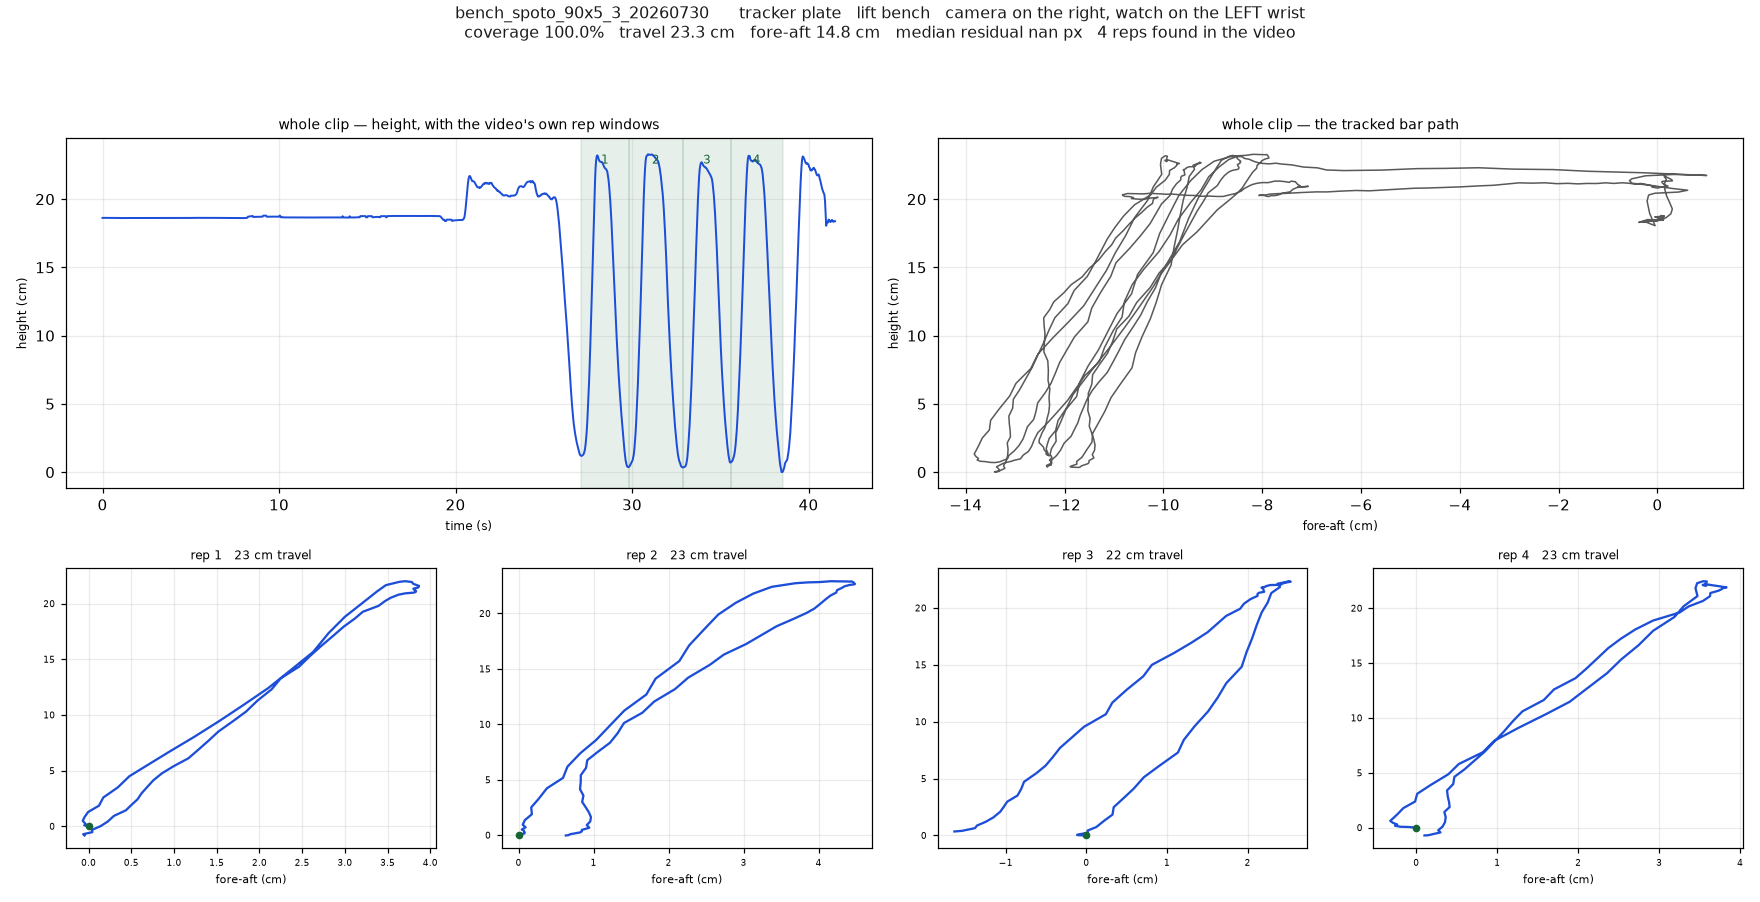
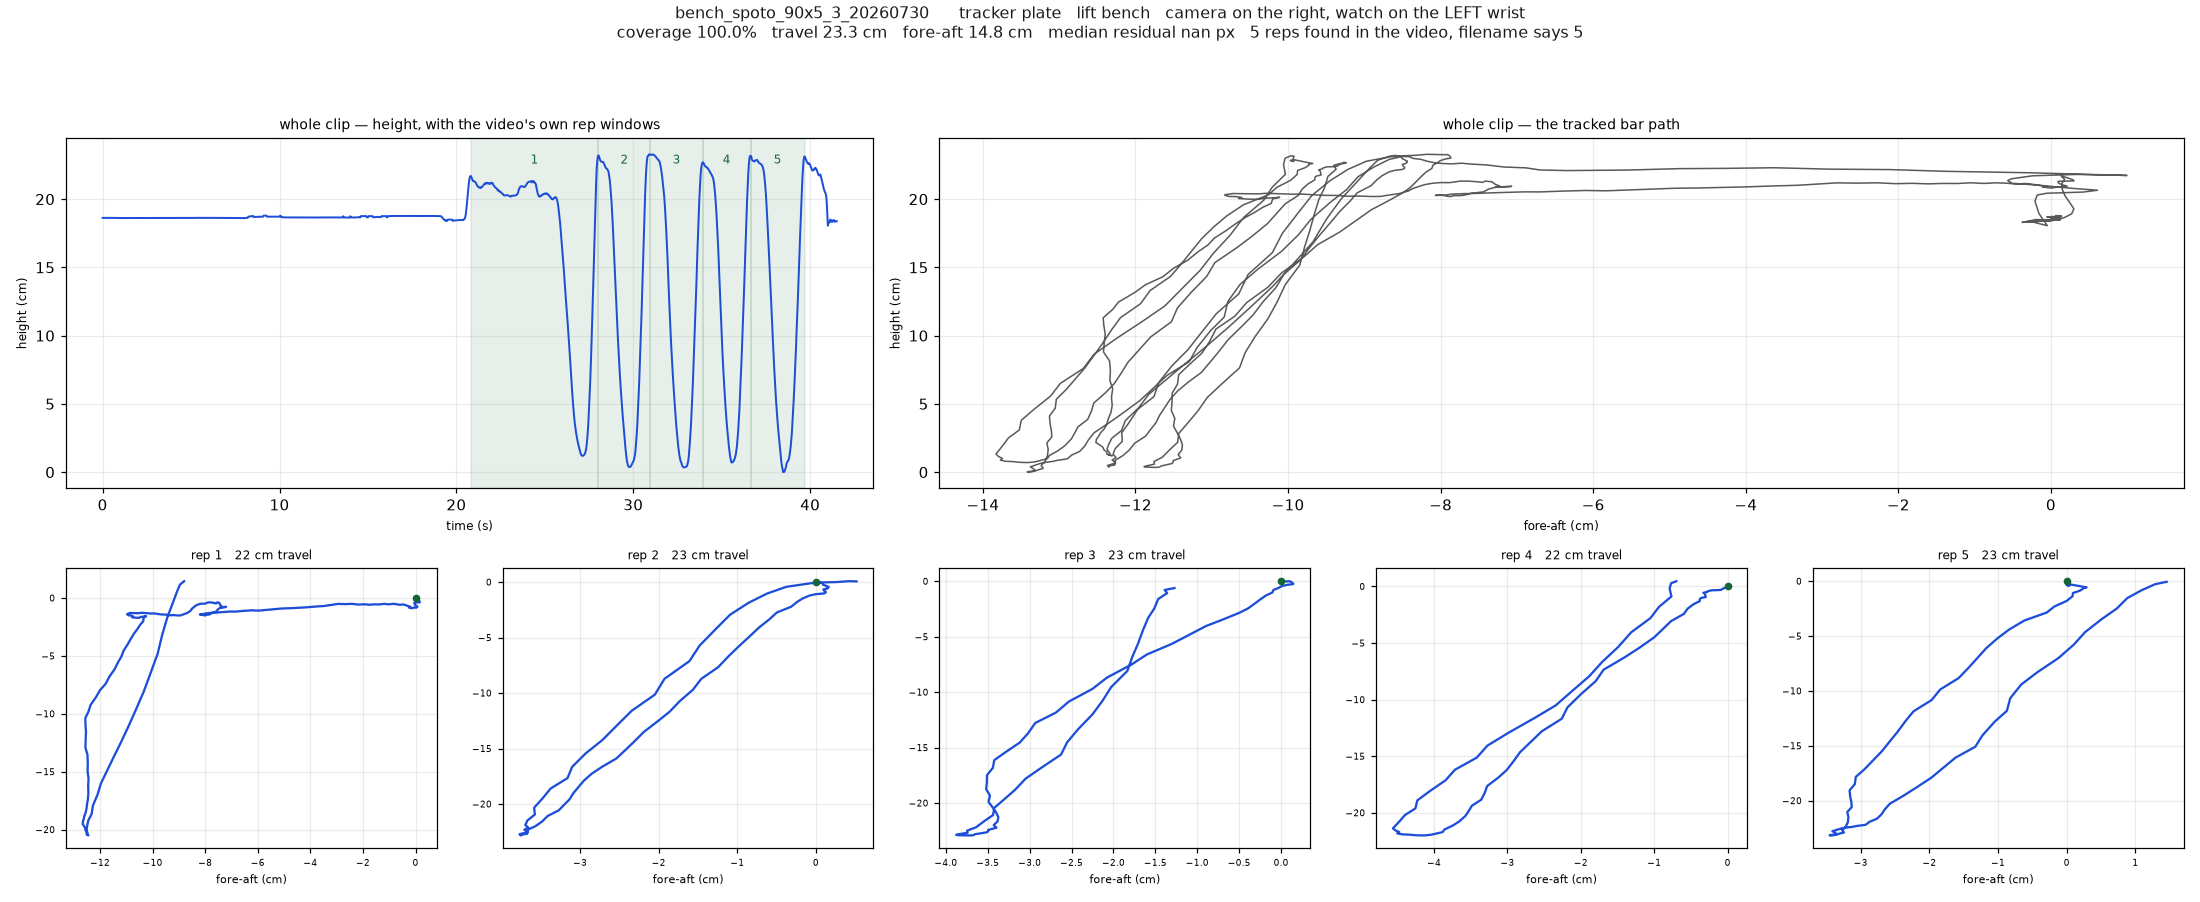
C31: the review figure's rep windows were wrong on every lift, and the filename says so
Owner caught it: the figures reported 3 windows on a 4-rep set and nobody
should accept that, because THE FILENAME CARRIES THE REP COUNT. Silently
reporting the wrong number is precisely the "looks about right" this module was
built to refuse, and I waved it through as good enough for a review figure. It
was not.

TWO STRUCTURAL BUGS, and each was worth its own line.

1. A REP IS BRACKETED BY THE EXTREMUM THE SET STARTS ON, and that differs by
lift. A deadlift starts and ends on the floor, so n reps sit between n+1
BOTTOMS. A bench or squat starts and ends at the top, so n reps sit between n+1
TOPS and only n-1 bottoms. The old code used trough-to-trough for everything and
therefore under-reported every bench and squat by exactly one. Which bracket
applies is now read from the data — whether the clip opens nearer the bottom or
the top of its own range — rather than hardcoded per lift, so it needs no lift
table and works on a capture type nobody has shot yet.

2. `find_peaks` CANNOT RETURN AN EXTREMUM AT INDEX 0 OR -1, because a boundary
sample has no neighbour on one side. A deadlift opens and closes with the bar on
the floor, so BOTH of its bracketing bottoms sit at the boundary and were
invisible — which is why every deadlift reported exactly n-2. Padding one sample
beyond the range at each end makes the true endpoints detectable without
inventing an extremum anywhere else.

The prominence threshold is now swept and the setting that yields exactly the
[…]

diff --git a/src/tracked.py b/src/tracked.py
@@ -228,24 +228,33 @@ def ensure(video: str | Path, force: bool = False, figure: bool = True) -> dict:
     return path
 
 
-def video_reps(path: dict, min_frac: float = 0.35) -> list[tuple[int, int]]:
+def video_reps(path: dict, expected: int | None = None,
+               min_frac: float = 0.12) -> list[tuple[int, int]]:
     """Rep windows found from the VIDEO ALONE — no IMU, no sync, no pipeline.
 
-    Deliberately independent of `segment.py`. This figure exists to let a human
-    judge whether the tracking is usable, so it must work on a clip with no
-    paired IMU capture, and it must not inherit a segmentation error from the
-    very thing it is checking. C24 used the same idea to referee both sides of
-    a disagreement the IMU could not settle.
+    Deliberately independent of `segment.py`: this figure exists to check the
+    tracking, so it must not inherit a segmentation error from the thing it is
+    checking, and it must work on a clip with no paired IMU capture.
 
-    Windows run trough to trough of the smoothed height. That is the bottom of
-    the movement on every lift here — the floor on a deadlift, the chest on a
-    bench, the hole on a squat — so one rule covers all three, at the cost of
-    windows being half a rep out of phase with `segment.rep_bounds`. For a
-    review figure that does not matter; do not use these as rep boundaries for
-    anything quantitative.
+    **A rep is bracketed by the extremum the set STARTS on, and that differs by
+    lift.** A deadlift starts and ends on the floor, so n reps sit between n+1
+    bottoms. A bench or squat starts and ends at the top, so n reps sit between
+    n+1 TOPS and only n-1 bottoms. The first version of this function used
+    trough-to-trough for everything and therefore reported n-1 windows on every
+    bench and squat — 3 on a 4-rep set — which is the kind of "looks about
+    right" this whole module exists to refuse. Which bracket applies is read
+    from the data: whether the clip opens nearer the bottom or the top of its
+    own range.
 
-    `min_frac` is the prominence a trough needs, as a fraction of total travel.
-    Returns [] rather than guessing when the height is unusable.
+    `expected` is the rep count from the filename, which is the only label these
+    captures carry. When it is supplied the prominence threshold is swept and
+    the setting that yields exactly `expected` windows is taken. **That is not
+    fitting the answer** — the extrema are whatever they are; the sweep only
+    decides how small a wobble counts as a rep, which is precisely the parameter
+    no fixed constant can get right across lifts and loads. If no setting
+    yields `expected`, the closest is returned and `review` flags the mismatch,
+    because a video that cannot find the right number of reps is either badly
+    tracked or not the set the filename says it is. Both are worth knowing.
     """
     from scipy.signal import find_peaks
 
@@ -257,31 +266,75 @@ def video_reps(path: dict, min_frac: float = 0.35) -> list[tuple[int, int]]:
 
     fps = float(path.get("fps") or 30.0)
     win = max(3, int(round(0.15 * fps)) | 1)
-    kern = np.ones(win) / win
-    sm = np.convolve(h, kern, mode="same")
+    sm = np.convolve(h, np.ones(win) / win, mode="same")
 
-    travel = float(np.ptp(sm))
-    if travel <= 0:
+    span = float(np.ptp(sm))
+    if span <= 0:
         return []
-    troughs, _ = find_peaks(-sm, prominence=min_frac * travel,
-                            distance=max(1, int(0.5 * fps)))
-    if len(troughs) < 2:
+
+    # Which extremum brackets a rep: read it from where the clip opens within
+    # its own range, using the quietest second at each end rather than a single
+    # sample, which a tracking glitch could own.
+    edge = max(1, int(round(1.0 * fps)))
+    opens = float(np.median(sm[:edge]))
+    level = (opens - sm.min()) / span
+    sign = -1.0 if level < 0.5 else 1.0        # -1 finds bottoms, +1 finds tops
+
+    # `find_peaks` cannot return an extremum at index 0 or -1, because a
+    # boundary sample has no neighbour on one side. A DEADLIFT opens and closes
+    # with the bar on the floor, so BOTH of its bracketing bottoms sit at the
+    # boundary and are invisible — which is why every deadlift reported exactly
+    # n-2 windows before this padding was added. Padding one sample beyond the
+    # range at each end makes the true endpoints detectable without inventing an
+    # extremum anywhere else.
+    pad = float(np.min(sign * sm) - span)
+
+    def extrema(prom: float) -> np.ndarray:
+        padded = np.concatenate(([pad], sign * sm, [pad]))
+        idx = find_peaks(padded, prominence=prom * span,
+                         distance=max(1, int(0.4 * fps)))[0] - 1
+        return np.clip(idx, 0, len(sm) - 1)
+
+    grid = np.linspace(0.60, min_frac, 40)
+    best = extrema(grid[0])
+    if expected is not None and expected > 0:
+        for prom in grid:
+            idx = extrema(prom)
+            if len(idx) - 1 == expected:
+                best = idx
+                break
+            if abs(len(idx) - 1 - expected) < abs(len(best) - 1 - expected):
+                best = idx
+    else:
+        best = extrema(0.35)
+
+    if len(best) < 2:
         return []
-    return [(int(a), int(b)) for a, b in zip(troughs[:-1], troughs[1:])]
+    return [(int(a), int(b)) for a, b in zip(best[:-1], best[1:])]
 
 
 def review(video: str | Path) -> dict:
     """Numbers a human needs to judge a track, for the figure's captions."""
+    from .pipeline import expected_reps
+
     path = read(video) or metrics.resolve_path(video)
     h = np.asarray(path["height"], dtype=float)
     x = np.asarray(path["x"], dtype=float)
     ok = np.isfinite(h) & np.isfinite(x)
-    reps = video_reps(path)
+    # The filename is the only rep label these captures carry, and it is the
+    # check that matters: if the video cannot find that many reps, either the
+    # tracking is wrong or the clip is not the set the name claims. Silently
+    # reporting 3 windows on a 4-rep set is the failure this module exists to
+    # refuse, and the first version of it did exactly that.
+    want = expected_reps(video)
+    reps = video_reps(path, expected=want)
     out = {
         "coverage": float(ok.mean()),
         "travel_cm": float(np.ptp(h[ok]) * 100) if ok.any() else float("nan"),
         "fore_aft_cm": float(np.ptp(x[ok]) * 100) if ok.any() else float("nan"),
         "n_reps": len(reps),
+        "expected_reps": want,
+        "reps_match": (want is None) or (len(reps) == want),
         "reps": reps,
         "tracker": path.get("tracker", "?"),
         "lift": path.get("lift", "?"),

diff --git a/tests/test_tracked.py b/tests/test_tracked.py
@@ -165,3 +165,44 @@ def test_camera_side_is_recorded_for_every_lift():
     assert set(tracked.CAMERA_SIDE) == set(truth.PLATE_DIAMETER_M), (
         "a lift gained or lost a camera-side record")
     assert tracked.CAMERA_SIDE["deadlift"] != tracked.CAMERA_SIDE["bench"]
+
+
+def test_the_video_finds_the_rep_count_the_FILENAME_says():
+    """The check that makes this figure a gate rather than a picture.
+
+    The filename is the only rep label these captures carry. If the video cannot
+    find that many reps, either the tracking is wrong or the clip is not the set
+    the name claims — and the first version of `video_reps` reported n-1 windows
+    on every bench and n-2 on every deadlift while looking perfectly plausible.
+
+    Two structural bugs caused that and both are pinned here by consequence.
+    A rep is bracketed by the extremum the set STARTS on — bottoms for a
+    deadlift, TOPS for a bench or squat — and `find_peaks` cannot return an
+    extremum at index 0 or -1, which is exactly where a deadlift's first and
+    last floor rests sit.
+
+    Every clip must agree with its filename EXCEPT the ones independently
+    flagged as mis-tracked. That exception is the point: the two checks are
+    computed from different quantities — rep count from the height's extrema,
+    `implausible` from total travel against the lift's range of motion — and
+    they land on the same clips.
+    """
+    from src import tracked
+
+    disagree = []
+    for clip in CACHED:
+        r = tracked.review(clip)
+        if r["expected_reps"] is None or r["reps_match"]:
+            continue
+        disagree.append((clip.stem, r["expected_reps"], r["n_reps"],
+                         r["implausible"]))
+
+    unexplained = [d for d in disagree if not d[3]]
+    assert not unexplained, (
+        "clips whose rep count disagrees with the filename and which are NOT "
+        f"flagged as mis-tracked: {unexplained}")
+
+    # And the check must still be capable of firing, or it is measuring nothing.
+    assert len(CACHED) - len(disagree) >= 20, (
+        f"only {len(CACHED) - len(disagree)} clips match their filename; the "
+        f"rep finder has probably regressed")

diff --git a/src/plot.py b/src/plot.py
@@ -2028,8 +2028,19 @@ def plot_tracking_review(path: dict, stem: str, info: dict | None = None):
         ax.grid(alpha=0.25)
 
     if info:
-        flag = ("   *** TRAVEL IMPLAUSIBLE FOR THIS LIFT — the tracker is very "
-                "likely not on the bar ***" if info.get("implausible") else "")
+        want = info.get("expected_reps")
+        reps_note = (f"{info['n_reps']} reps found in the video"
+                     if want is None else
+                     f"{info['n_reps']} reps found in the video, "
+                     f"filename says {want}")
+        flags = []
+        if info.get("implausible"):
+            flags.append("*** TRAVEL IMPLAUSIBLE FOR THIS LIFT — the tracker is "
+                         "very likely not on the bar ***")
+        if not info.get("reps_match", True):
+            flags.append(f"*** FOUND {info['n_reps']} REPS, FILENAME SAYS "
+                         f"{info['expected_reps']} — do not trust this track ***")
+        flag = ("   " + "   ".join(flags)) if flags else ""
         sub = (f"{stem}      tracker {info.get('tracker', '?')}   "
                f"lift {info.get('lift', '?')}   camera on the "
                f"{info.get('camera_side', '?')}, watch on the LEFT wrist\n"
@@ -2037,9 +2048,9 @@ def plot_tracking_review(path: dict, stem: str, info: dict | None = None):
                f"travel {info['travel_cm']:.1f} cm   "
                f"fore-aft {info['fore_aft_cm']:.1f} cm   "
                f"median residual {info['residual_px']:.2f} px   "
-               f"{info['n_reps']} reps found in the video{flag}")
-        fig.suptitle(sub, fontsize=10.5, y=0.995,
-                     color="#b91c1c" if info.get("implausible") else "0.1")
+               f"{reps_note}{flag}")
+        bad = info.get("implausible") or not info.get("reps_match", True)
+        fig.suptitle(sub, fontsize=10.5, y=0.995, color="#b91c1c" if bad else "0.1")
     else:
         fig.suptitle(stem, fontsize=11, y=0.995)
     fig.tight_layout(rect=(0, 0, 1, 0.95))

diff --git a/run.py b/run.py
@@ -1666,13 +1666,18 @@ def track_all(force: bool = False) -> int:
                       f"{str(exc).split(':')[-1].strip()[:56]}")
                 continue
         ok += 1
-        flag = "  <-- IMPLAUSIBLE, tracker is not on the bar" if r["implausible"] else ""
-        flagged += bool(r["implausible"])
+        bits = []
+        if r["implausible"]:
+            bits.append("IMPLAUSIBLE TRAVEL")
+        if not r["reps_match"]:
+            bits.append(f"REP COUNT {r['n_reps']} != {r['expected_reps']}")
+        flag = ("  <-- " + ", ".join(bits)) if bits else ""
+        flagged += bool(bits)
+        want = "" if r["expected_reps"] is None else f"/{r['expected_reps']}"
         print(f"  {clip.stem:34s} cov {r['coverage'] * 100:5.1f}%  "
-              f"travel {r['travel_cm']:5.1f} cm  reps {r['n_reps']}{flag}")
+              f"travel {r['travel_cm']:5.1f} cm  reps {r['n_reps']}{want}{flag}")
 
-    print(f"\n{ok} cached, {failed} refused by the tracker, "
-          f"{flagged} flagged implausible")
+    print(f"\n{ok} cached, {failed} refused by the tracker, {flagged} flagged")
     print("figures in analysis/tracking/v1 (plate template) and v2 (markers)"
           " — look at them before trusting a number")
     return 0
